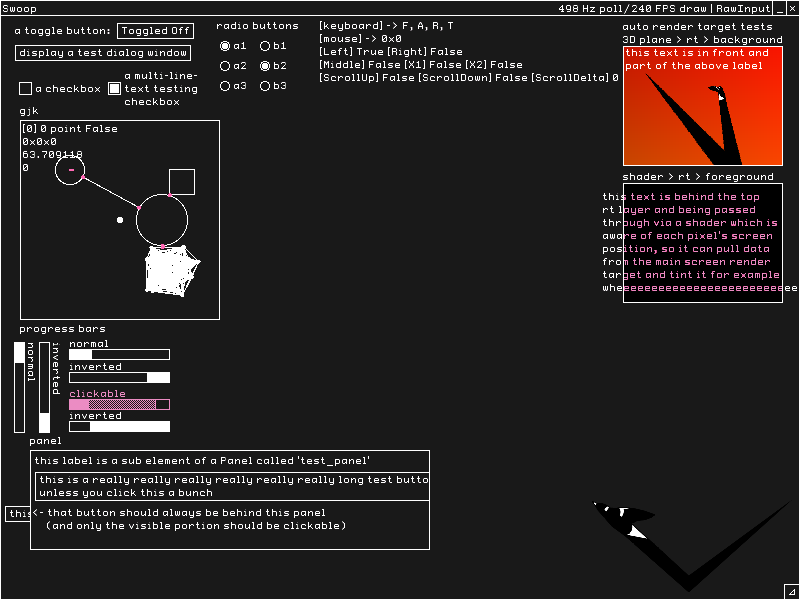
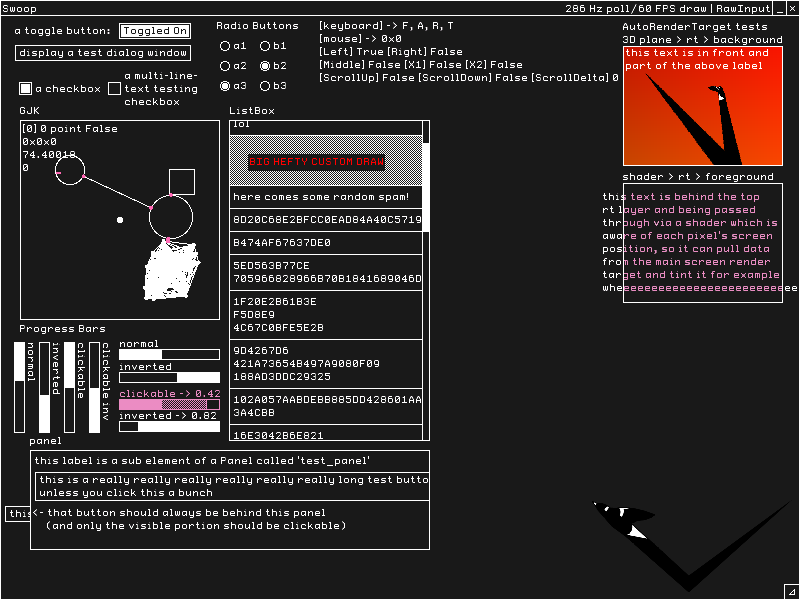
Added ListBox scrolling

diff --git a/Swoop/UIElements/ListBox.cs b/Swoop/UIElements/ListBox.cs
@@ -1,4 +1,5 @@
-using Microsoft.Xna.Framework;
+using MGRawInputLib;
+using Microsoft.Xna.Framework;
 using Microsoft.Xna.Framework.Graphics;
 using System;
 using System.Collections.Generic;
@@ -13,6 +14,8 @@ namespace SwoopLib.UIElements {
 
         AutoRenderTarget rt;
         internal RenderTarget2D render_target => rt.render_target;
+
+        int left_margin = 4;
 
         bool _custom_draw = false;
         public bool custom_draw => _custom_draw;
@@ -46,11 +49,11 @@ namespace SwoopLib.UIElements {
         XYPair text_size;
         internal XYPair size => _custom_draw ?
             (XYPair.UnitY * _height) +
-            parent.size.X_only :
-            text_size;
+            parent.size_minus_scroll_bar.X_only :
+            text_size.Y_only + parent.size_minus_scroll_bar.X_only;
 
         void draw_text(XYPair position, XYPair size) {
-            Drawing.text(text, XYPair.Zero, Swoop.get_color(parent));            
+            Drawing.text(text, XYPair.Zero + (XYPair.UnitX * left_margin), Swoop.UI_color);            
         }
 
         public ListBoxItem(string text) {
@@ -69,26 +72,20 @@ namespace SwoopLib.UIElements {
         void init() {
         }
 
-        public void set_parent (ListBox parent) {
+        internal void set_parent (ListBox parent) {
             this.parent = parent;
             if (_custom_draw) {                
                 rt = new AutoRenderTarget(size);
                 rt.draw = draw_action;
             } else {
-                rt = new AutoRenderTarget(text_size);
+                rt = new AutoRenderTarget(size);
                 rt.draw = draw_text;
             }
         }
 
-        public void size_changed() {
-            if (_custom_draw) {
-                rt.size = size;
-                rt.draw = draw_action;
-            } else {
-                if (rt == null) rt = new AutoRenderTarget(text_size);
-                else rt.size = text_size;
-                rt.draw = draw_text;
-            }
+        internal void size_changed() {
+            if (rt == null) return;
+            rt.size = size;            
         }
 
     }
@@ -96,16 +93,55 @@ namespace SwoopLib.UIElements {
     public class ListBox : UIElement {
         List<ListBoxItem> items = new List<ListBoxItem>();
 
-        int top_margin = 4;
+        int top_margin = 5;
         int bottom_margin = 4;
-        int left_margin = 4;
+
+        float lb_height => (float)size.Y;
+        int total_height = 0;
+
+        float visible_area_fract_of_height => (float)size.Y / (float)total_height;
+
+        float top_position_fract => scroll_position / (float)total_height;
+        float bottom_position_fract => (scroll_position + lb_height) / (float)total_height;
+
+        int _scroll_width = 7;
+        int scroll_bar_width { get => _scroll_width;
+            set {
+                if (_scroll_width != value) {
+                    _scroll_width = value;
+
+                    foreach(ListBoxItem item in items) {
+                        item.size_changed();
+                    }
+                }
+
+            }
+        }
+        float scroll_position = 0f;
+
+        internal XYPair size_minus_scroll_bar => size - (XYPair.UnitX * scroll_bar_width);
 
         public void add_item(ListBoxItem item) { 
             item.set_parent(this);
             items.Add(item); 
+
+            if (item.custom_draw) total_height += item.height;
+            else total_height += item.height + top_margin + bottom_margin + 1;
+            
         }
-        public void remove(ListBoxItem item) => items.Remove(item);
-        public void remove_at(int index) => items.RemoveAt(index);
+        public void remove(ListBoxItem item) {
+            if (item.custom_draw) total_height -= item.height;
+            else total_height -= item.height + top_margin + bottom_margin + 1;
+            
+            items.Remove(item);
+            
+        }
+        public void remove_at(int index) {
+            if (items[index].custom_draw) total_height -= items[index].height;
+            else total_height -= items[index].height + top_margin + bottom_margin + 1;
+
+            items.RemoveAt(index); 
+        }
 
         public ListBoxItem last_item => items[items.Count - 1];
 
@@ -123,31 +159,64 @@ namespace SwoopLib.UIElements {
 
         internal override void draw_rt() {
             int running_height = 0;
-            Drawing.line((Vector2.UnitY * running_height), (Vector2.UnitY * running_height) + (Vector2.UnitX * size.X), Swoop.get_color(this), 1f);
+
 
             foreach (ListBoxItem item in items) {
                 if (item.custom_draw) {
-                    if (item.render_target != null)
-                        Drawing.image(item.render_target, XYPair.UnitY * running_height, item.size);
+                    var item_bottom = running_height + item.height;
+                    if ((item_bottom > scroll_position && item_bottom < scroll_position + lb_height) ||
+                        (running_height > scroll_position && running_height < scroll_position + lb_height)) {
+
+                        if (item.render_target != null)
+                            Drawing.image(item.render_target, (XYPair.UnitY * (running_height - scroll_position)), item.size);
+
+                    }
+
                     running_height += item.height;
-                    Drawing.line((Vector2.UnitY * running_height), (Vector2.UnitY * running_height) + (Vector2.UnitX * size.X), Swoop.get_color(this), 1f);
+
                 } else {
-                    if (item.render_target != null)
-                        Drawing.image(item.render_target, XYPair.UnitY * running_height + (Vector2.UnitY * top_margin) + (XYPair.UnitX * left_margin), item.size);
+                    var item_bottom = running_height + item.height;
+                    if ((item_bottom > scroll_position && item_bottom < scroll_position + lb_height) ||
+                        (running_height > scroll_position && running_height < scroll_position + lb_height)) {
+
+                        if (item.render_target != null)
+                            Drawing.image(item.render_target, (XYPair.UnitY * (running_height - scroll_position)) + (Vector2.UnitY * top_margin), item.size);
+                    }
 
                     running_height += item.height + top_margin + bottom_margin + 1;
-
-                    Drawing.line((Vector2.UnitY * running_height), (Vector2.UnitY * running_height) + (Vector2.UnitX * size.X), Swoop.get_color(this), 1f);
                 }
+
+                Drawing.line((Vector2.UnitY * (running_height - scroll_position)), (Vector2.UnitY * (running_height - scroll_position)) + (Vector2.UnitX * size_minus_scroll_bar.X), Swoop.UI_color, 1f);
             }
+
+            //draw scroll bar            
+            Drawing.fill_rect(
+                size_minus_scroll_bar.X_only.ToVector2() + (size.Y_only.ToVector2() * top_position_fract),
+                size.X_only.ToVector2() + (size.Y_only.ToVector2() * bottom_position_fract),                
+                Swoop.UI_color);
+
+            Drawing.line(size_minus_scroll_bar.X_only, size_minus_scroll_bar, Swoop.UI_color, 1f);
         }
 
         internal override void handle_focused_input() {
 
         }
 
+        InputHandler handler = new InputHandler();
         internal override void update() {
+            handler.update();
+            if (mouse_over) {
+                var delta = handler.rawinput_mouse_state.ScrollDelta;
+                scroll_position -= delta / 6f;
 
+                if (top_position_fract < 0f) {
+                    scroll_position = 0f;
+
+                }
+                if (bottom_position_fract > 1f) {
+                    scroll_position = total_height - lb_height;
+                }
+            }
         }
     }
 }

diff --git a/SwoopDemo/SwoopGame.cs b/SwoopDemo/SwoopGame.cs
@@ -74,7 +74,7 @@ namespace SwoopDemo {
             draw_shader = new ShadedQuadWVP(Swoop.content, "draw_2d");
             tint_effect = new ShadedQuadWVP(Swoop.content, "test_tint");
 
-            UI.add_element(new Label("test_3d_label", "auto render target tests\n3D plane > rt > background\n this text is in front and\n part of the above label", (resolution.X_only - (resolution.X_only / 4.5f)) + ((UI.elements["title_bar"].height + 5) * XYPair.UnitY)));
+            UI.add_element(new Label("test_3d_label", "AutoRenderTarget tests\n3D plane > rt > background\n this text is in front and\n part of the above label", (resolution.X_only - (resolution.X_only / 4.5f)) + ((UI.elements["title_bar"].height + 5) * XYPair.UnitY)));
 
             UI.add_element(new Label("test_3d_label_2", "shader > rt > foreground", (resolution.X_only - (resolution.X_only / 4.5f)) + ((UI.elements["title_bar"].height + 155) * XYPair.UnitY)));
             UI.add_element(new Label("test_3d_label_3", "this text is behind the top\nrt layer and being passed\nthrough via a shader which is\naware of each pixel's screen\nposition, so it can pull data\nfrom the main screen render\ntarget and tint it for example\nwheeeeeeeeeeeeeeeeeeeeeeeeeeeeeeeeeeee", 
@@ -318,7 +318,8 @@ namespace SwoopDemo {
             test_listbox.add_item(new ListBoxItem("a third test\nthis time it's multiline\nlol"));
             test_listbox.add_item(new ListBoxItem(50, (XYPair position, XYPair size) => {
                 Drawing.fill_rect_dither(XYPair.Zero, size, Swoop.UI_background_color, Swoop.UI_color);
-                Drawing.text_shadow("BIG HEFTY CUSTOM DRAW", Vector2.One * 20, Color.Red);
+                Drawing.fill_rect(Vector2.One * 18, Vector2.One * 22 + Drawing.measure_string_profont_xy("BIG HEFTY CUSTOM DRAW"), Swoop.UI_background_color);
+                Drawing.text("BIG HEFTY CUSTOM DRAW", Vector2.One * 20, Color.Red);
             }));
             test_listbox.add_item(new ListBoxItem("here comes some random spam!"));
 

diff --git a/Swoop/Swoop.cs b/Swoop/Swoop.cs
@@ -18,6 +18,10 @@ namespace SwoopLib {
             if (element.focused) return UI_highlight_color;
             else return UI_color;
         }
+        public static Color get_color_inverse(UIElement element) {
+            if (!element.focused) return UI_highlight_color;
+            else return UI_color;
+        }
 
         public static Color UI_color = Color.White;
         public static Color UI_highlight_color = Color.FromNonPremultiplied(235, 140, 195, 255);
